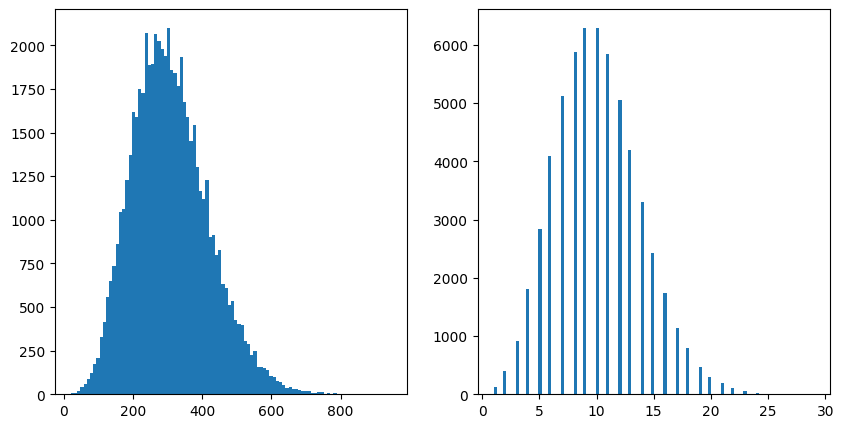
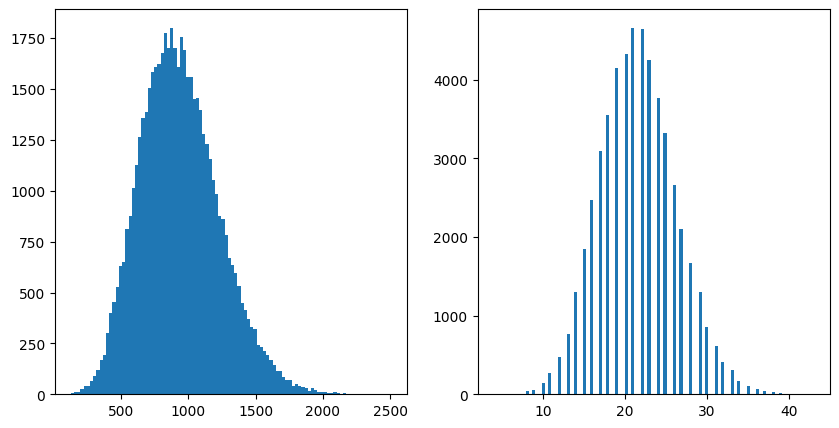
new data analysis

diff --git a/data_process_new.py b/data_process_new.py
@@ -1,0 +1,121 @@
+
+# opens a file with 1000 events and processes data to a neural network friendly format
+
+import h5py
+import sys
+import torch
+import os
+import numpy as np
+from tqdm import tqdm
+# get home directory path
+with open('home_path.txt', 'r') as f:
+    home_dir = f.readlines()[0].strip()
+
+pop_top_vtx = True
+
+for fileid in range(1, 100):
+    try:
+        file = h5py.File('/work/tier3/bmaier/upuppi/samples/events_'+str(fileid)+".h5", "r")
+        # file_out = h5py.File(home_dir + 'test2/raw/samples_v0_dijet_'+str(fileid)+".h5", "w")
+        file_out = h5py.File(home_dir + 'all_new_data/raw/samples_v0_dijet_'+str(fileid)+".h5", "w")
+    except FileNotFoundError or OSError:
+        # print the error
+        print("fileid:", fileid)
+        continue
+    except OSError as e:
+        print("fileid:", fileid)
+        print(e)
+        continue
+
+# pfs = np.stack((final_pfs['pt'], final_pfs['eta'], final_pfs['phi'], final_pfs['e'], final_pfs['pid'], final_pfs['reco_z'], final_pfs['charge'], final_pfs['reco_z_vtx']), axis=-1)
+# vtx = np.stack((final_vtx['x'], final_vtx['y'], final_vtx['z'], final_vtx['ndf'], final_vtx['total_pt']), axis=-1)
+
+    with file as f:
+        pfs = f["pfs"][:, :3000, :]
+        vtx = f["vtx"][:, :50]
+        truth = f["truth"][:, :3000]
+        z = f["z"][:, :3000]
+        
+
+        if pop_top_vtx:
+            num_pfs = pfs.shape[1]
+            new_truth = np.zeros((truth.shape[0], truth.shape[1]))
+            new_truth -= 99
+            new_pfs = np.zeros((pfs.shape[0], pfs.shape[1], pfs.shape[2]))
+            new_z = np.zeros((z.shape[0], z.shape[1]))
+            vtx = vtx[:, 1:, :]
+            for i in range(vtx.shape[0]):
+                pileup_idx = (truth[i, :] != 0)
+                if np.sum(truth[i] == 1) == 0:
+                    print(truth[i])
+                    print(vtx[i, :, :])
+                    print(i, fileid)
+                    raise(Exception("no truth value 1"))
+
+                new_truth[i] = np.concatenate((truth[i][pileup_idx], np.zeros(num_pfs - np.sum(pileup_idx))), axis=0)
+                new_truth[i] = new_truth[i] - 1
+                new_pfs[i] = np.concatenate((pfs[i][pileup_idx], np.zeros((num_pfs - np.sum(pileup_idx), new_pfs.shape[2]))), axis=0)
+                new_z[i] = np.concatenate((z[i][pileup_idx], np.zeros((num_pfs - np.sum(pileup_idx)))), axis=0)
+            truth = new_truth
+            pfs = new_pfs
+            z = new_z
+
+        # for each event, get the max truth value
+        max_truth = truth.max(axis=1)
+        nice_event_idx = (max_truth >= 2)
+        pfs = pfs[nice_event_idx]
+        vtx = vtx[nice_event_idx]
+        truth = truth[nice_event_idx]
+        z = z[nice_event_idx]
+
+
+        # one hot encode the pid
+        # pid takes values 0, 1, 2, 3, 4, -13/13
+        # pid takes values +- 11, 13, 22, 130, 211, 321, 2112, 2212
+        # pid_onehot takes values 0, 1, 2, 3, 4, 5, 6, 7 respectively (one hot encoded)
+        # initialize the pid_onehot array
+        pid = np.zeros((pfs.shape[0], pfs.shape[1], 8))
+        for i in tqdm(range(pfs.shape[0])):
+            for j in range(pfs.shape[1]):
+                particle_id = int(pfs[i,j,4])
+                try:
+                    pid[i,j,particle_id] = 1
+                except:
+                    print(i, j, particle_id)
+                    raise(Exception("error"))
+        pt = pfs[:,:,0]
+        eta = pfs[:,:,1]
+        phi = pfs[:,:,2]
+        E = pfs[:,:,3]
+        z_pfc = pfs[:,:,5]
+        q = pfs[:,:,6]
+        z_vtx = pfs[:,:,7]
+        px = pt * np.cos(phi)
+        py = pt * np.sin(phi)
+        # replace all 0 E, pt with 1
+        E[E==0] = 1
+        pt[pt==0] = 1
+        assert(np.all(E > 0))
+        assert(np.all(pt > 0))
+        log_E = np.log(E)
+        log_pt = np.log(pt)
+
+
+        # save the processed data in pfs
+        # new features: px, py, eta, phi, pt, E, log_E, pid, q, z
+        new_pfs = np.concatenate((px[:,:,np.newaxis], py[:,:,np.newaxis], eta[:,:,np.newaxis], phi[:,:,np.newaxis], pt[:,:,np.newaxis], E[:,:,np.newaxis], log_E[:,:,np.newaxis], z_pfc[:,:, np.newaxis], pid[:,:,:], q[:,:,np.newaxis], z_vtx[:,:,np.newaxis]), axis=2)
+    # save the processed data in the file
+    
+    print("new_pfs shape:", new_pfs.shape)
+    file_out.create_dataset("pfs", data=new_pfs)
+    file_out.create_dataset("vtx", data=vtx)
+    file_out.create_dataset("truth", data=truth)
+    file_out.create_dataset("z", data=z)
+    file_out.create_dataset('n', data=pfs.shape[0], dtype='i8')
+
+
+    # save the file
+    file_out.close()
+
+    # close the original file
+    file.close() 

diff --git a/multiclass_train_model.py b/multiclass_train_model.py
@@ -4,9 +4,9 @@ from loss_functions import *
 
 start_time = time.time()
 
-data_train = UPuppiV0(home_dir + 'all_data6/')
-data_test = UPuppiV0(home_dir + 'all_data6/')
-BATCHSIZE = 64
+data_train = UPuppiV0(home_dir + 'train_new/')
+data_test = UPuppiV0(home_dir + 'test_new/')
+BATCHSIZE = 32
 
 # model_name = "multiclassifier_2_vtx_without_primary"
 model_name = "multiclassifier_pt_weighted"
@@ -29,6 +29,9 @@ model_name = 'multi_deep_all_data4'
 # model_name = 'multi_deep_harsh_train5'
 model_name = 'multi_deep_all_data5'
 model_name = 'multi_deep_all_data6'
+model_name = 'multi_deep_new_data'
+model_name = 'multiclass_new_data'
+
 
 vtx_classes = 1
 
@@ -39,7 +42,7 @@ device = torch.device('cuda' if torch.cuda.is_available() else 'cpu')
 print("Using device: ", device, torch.cuda.get_device_name(0))
 
 model_dir = home_dir + 'models/{}/'.format(model_name)
-net = get_neural_net(model_name, new_net=True)(pfc_input_dim = 15, dropout=0, vtx_classes=vtx_classes, hidden_dim=160, k1=63, k2=31).to(device)
+net = get_neural_net(model_name, new_net=True)(pfc_input_dim = 18, dropout=0, vtx_classes=vtx_classes, hidden_dim=80, k1=63, k2=31).to(device)
 optimizer = torch.optim.Adam(net.parameters(), lr=0.001)
 # save the model hyperparameters in the model directory
 if not os.path.exists(model_dir): os.makedirs(model_dir)

diff --git a/load_pred_save.py b/load_pred_save.py
@@ -1,9 +1,9 @@
 from helper_functions import *
 # from dataset_graph_loader import UPuppiV0
 
-BATCHSIZE = 64
+BATCHSIZE = 16
 if __name__ == "__main__":
-    epoch_to_load = 19
+    epoch_to_load = 40
     model_name = "DynamicPointTransformer"
     # model_name = 'modelv2_analysis'
     model_name = 'modelv3_first_try'
@@ -24,11 +24,12 @@ if __name__ == "__main__":
     model_name = 'new_transformer_try1'
     model_name = 'multi_deep_more_curated_data'
     model_name = 'multi_deep_curated_data'
+    model_name = 'multi_deep_new_data'
 
 
     net = get_neural_net(model_name)
 
-    data_test = UPuppiV0(home_dir + "all_data3/")
+    data_test = UPuppiV0(home_dir + "test_new/")
     test_loader = DataLoader(data_test, batch_size=BATCHSIZE, shuffle=True,
                             follow_batch=['x_pfc', 'x_vtx'])
 
@@ -50,7 +51,7 @@ print(save_name)
 # # get df by uncommenting one of the following lines
 # df = save_z_predictions(net, test_loader, save_name)
 df = save_class_predictions(net, test_loader, save_name)
-df = pd.read_csv(home_dir + 'results/{}.csv'.format(save_name))
+# df = pd.read_csv(home_dir + 'results/{}.csv'.format(save_name))
 # select particles with vtx_truth == 0
 # df = df[df['vtx_truth'] != 0]
 print(df.head())

diff --git a/analyze_data.py b/analyze_data.py
@@ -5,7 +5,7 @@ from helper_functions import *
 # seed the random number generator
 torch.manual_seed(0)
 
-data_train = UPuppiV0(home_dir + "all_data/")
+data_train = UPuppiV0(home_dir + "all_new_data/")
 # data_train = UPuppiV0(home_dir + 'train5/')
 data_test = UPuppiV0(home_dir + 'test5/')
 train_loader = DataLoader(data_train, batch_size=1, shuffle=True, follow_batch=['x_pfc', 'x_vtx'])

diff --git a/check_consistency.py b/check_consistency.py
@@ -44,3 +44,7 @@ for fileid in range(1, 101):
                     print(truth_event[:Npfs])
                     print(vtx_event[:Nvtx])
                     raise(Exception("error"))
+                elif np.sum(truth[i] == 1) == 0:
+                    print(i, truth[i])
+                    print(vtx_event[:Nvtx])
+                    raise(Exception("error"))
